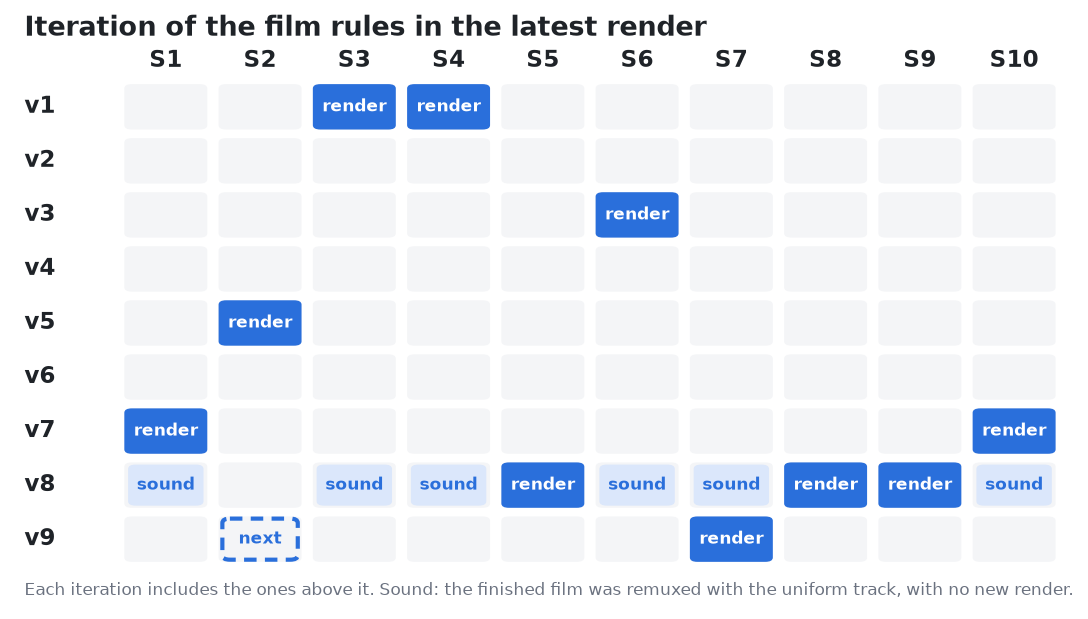
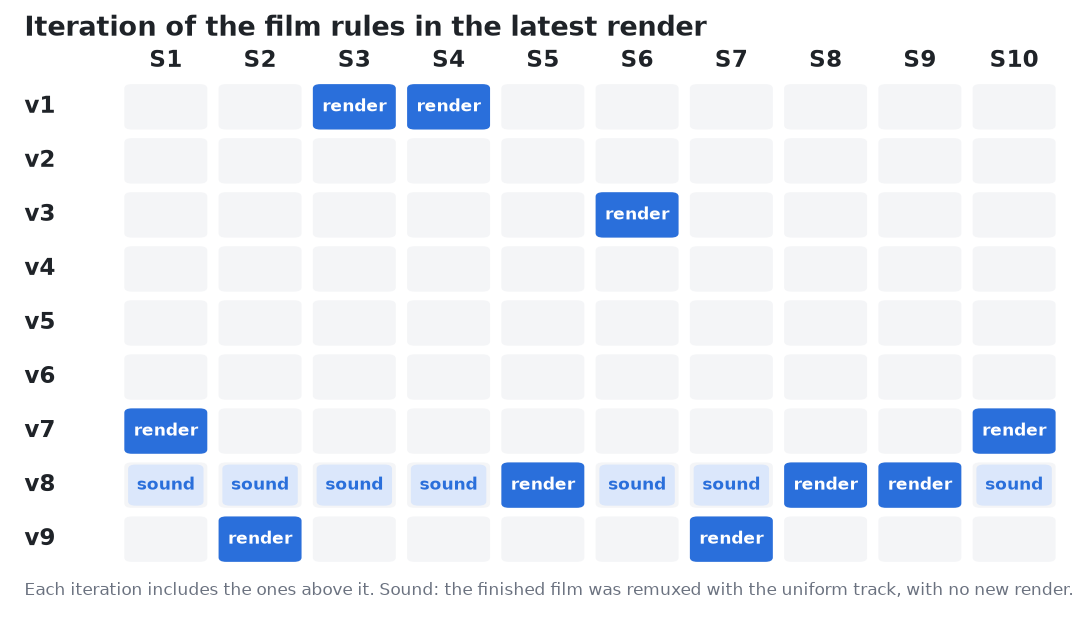
Show the new film of session 2 with its overture in the chart
The film of session 2 is rendered again on the rules of 2026-10-25, with the overture of its own
schematics over a silent pre-roll of 12 s, in which the schematics orbit over the desert and then
leave as light toward their landmarks, and it replaces session2.mp4 in the releases "films" and
"films-floating", so the page itself does not change. The chart moves session 2 to the iteration
v9 and no film is marked as the next one.

Claude-Session: https://claude.ai/code/session_01SC7dtWY3nJBJX617abbvfb

Changed region(s): [[0.1875, 0.7367, 0.2812, 0.9208], [0.1875, 0.4604, 0.2812, 0.5832]]

diff --git a/docs/film_rules.py b/docs/film_rules.py
@@ -11,8 +11,8 @@ V = [("v1  10-15", "First films: mind palace, voice as narrator,\ncaptions in a 
      ("v7  10-22 noon", "Essence dialogue, distant mist, photoreal\nhorizon, 2D winding world with hills"),
      ("v8  10-23", "Uniform sound matched to session 6,\nrecording pipeline with per-film options"),
      ("v9  10-25", "Overture of the session's schematics, silent\npre-roll, index check, floating formulas")]
-done = {3: 0, 4: 0, 6: 2, 7: 8, 2: 4, 1: 6, 10: 6, 8: 7, 9: 7, 5: 7}   # session -> version index of its latest full render
-prep = {2: 8}                                        # being made now, target version
+done = {3: 0, 4: 0, 6: 2, 7: 8, 2: 8, 1: 6, 10: 6, 8: 7, 9: 7, 5: 7}   # session -> version index of its latest full render
+prep = {}                                            # being made now, target version
 sound = {1, 2, 3, 4, 6, 7, 10}                             # finished films remuxed with the uniform sound of v8
 SOUND = 7
 ink, muted, grid, fill, surf = '#1f2328', '#6b7280', '#d8dce2', '#2a6fdb', '#ffffff'
